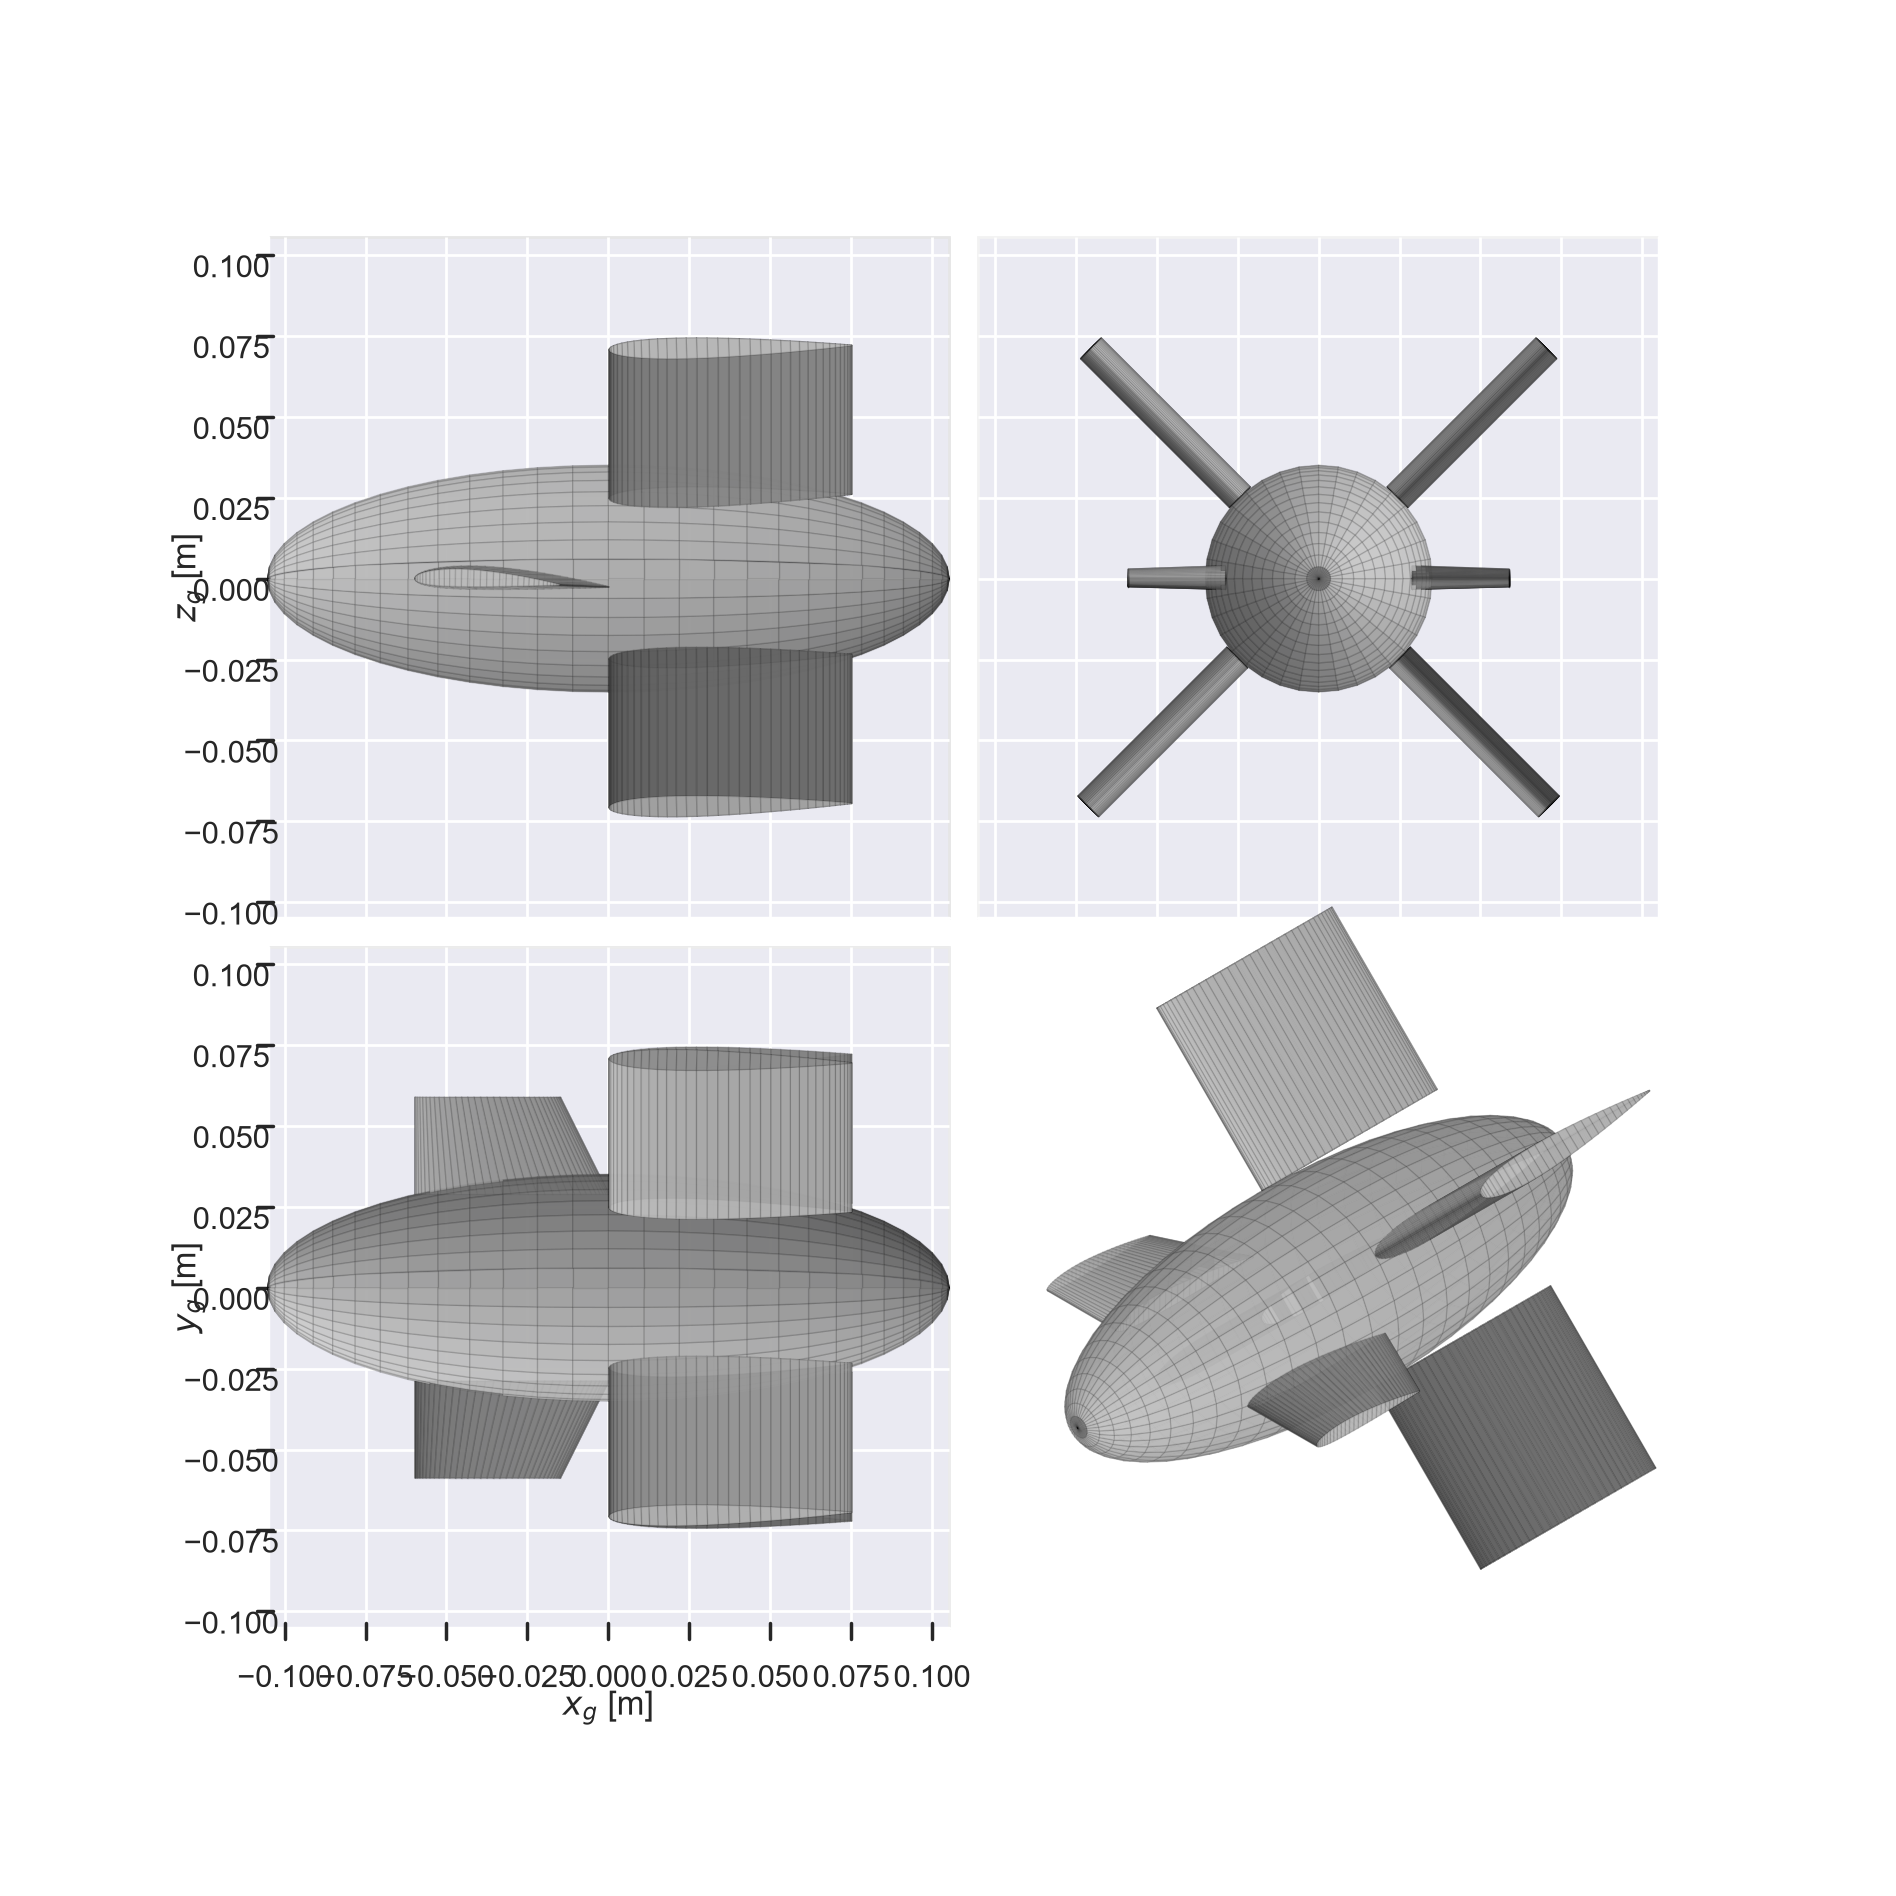
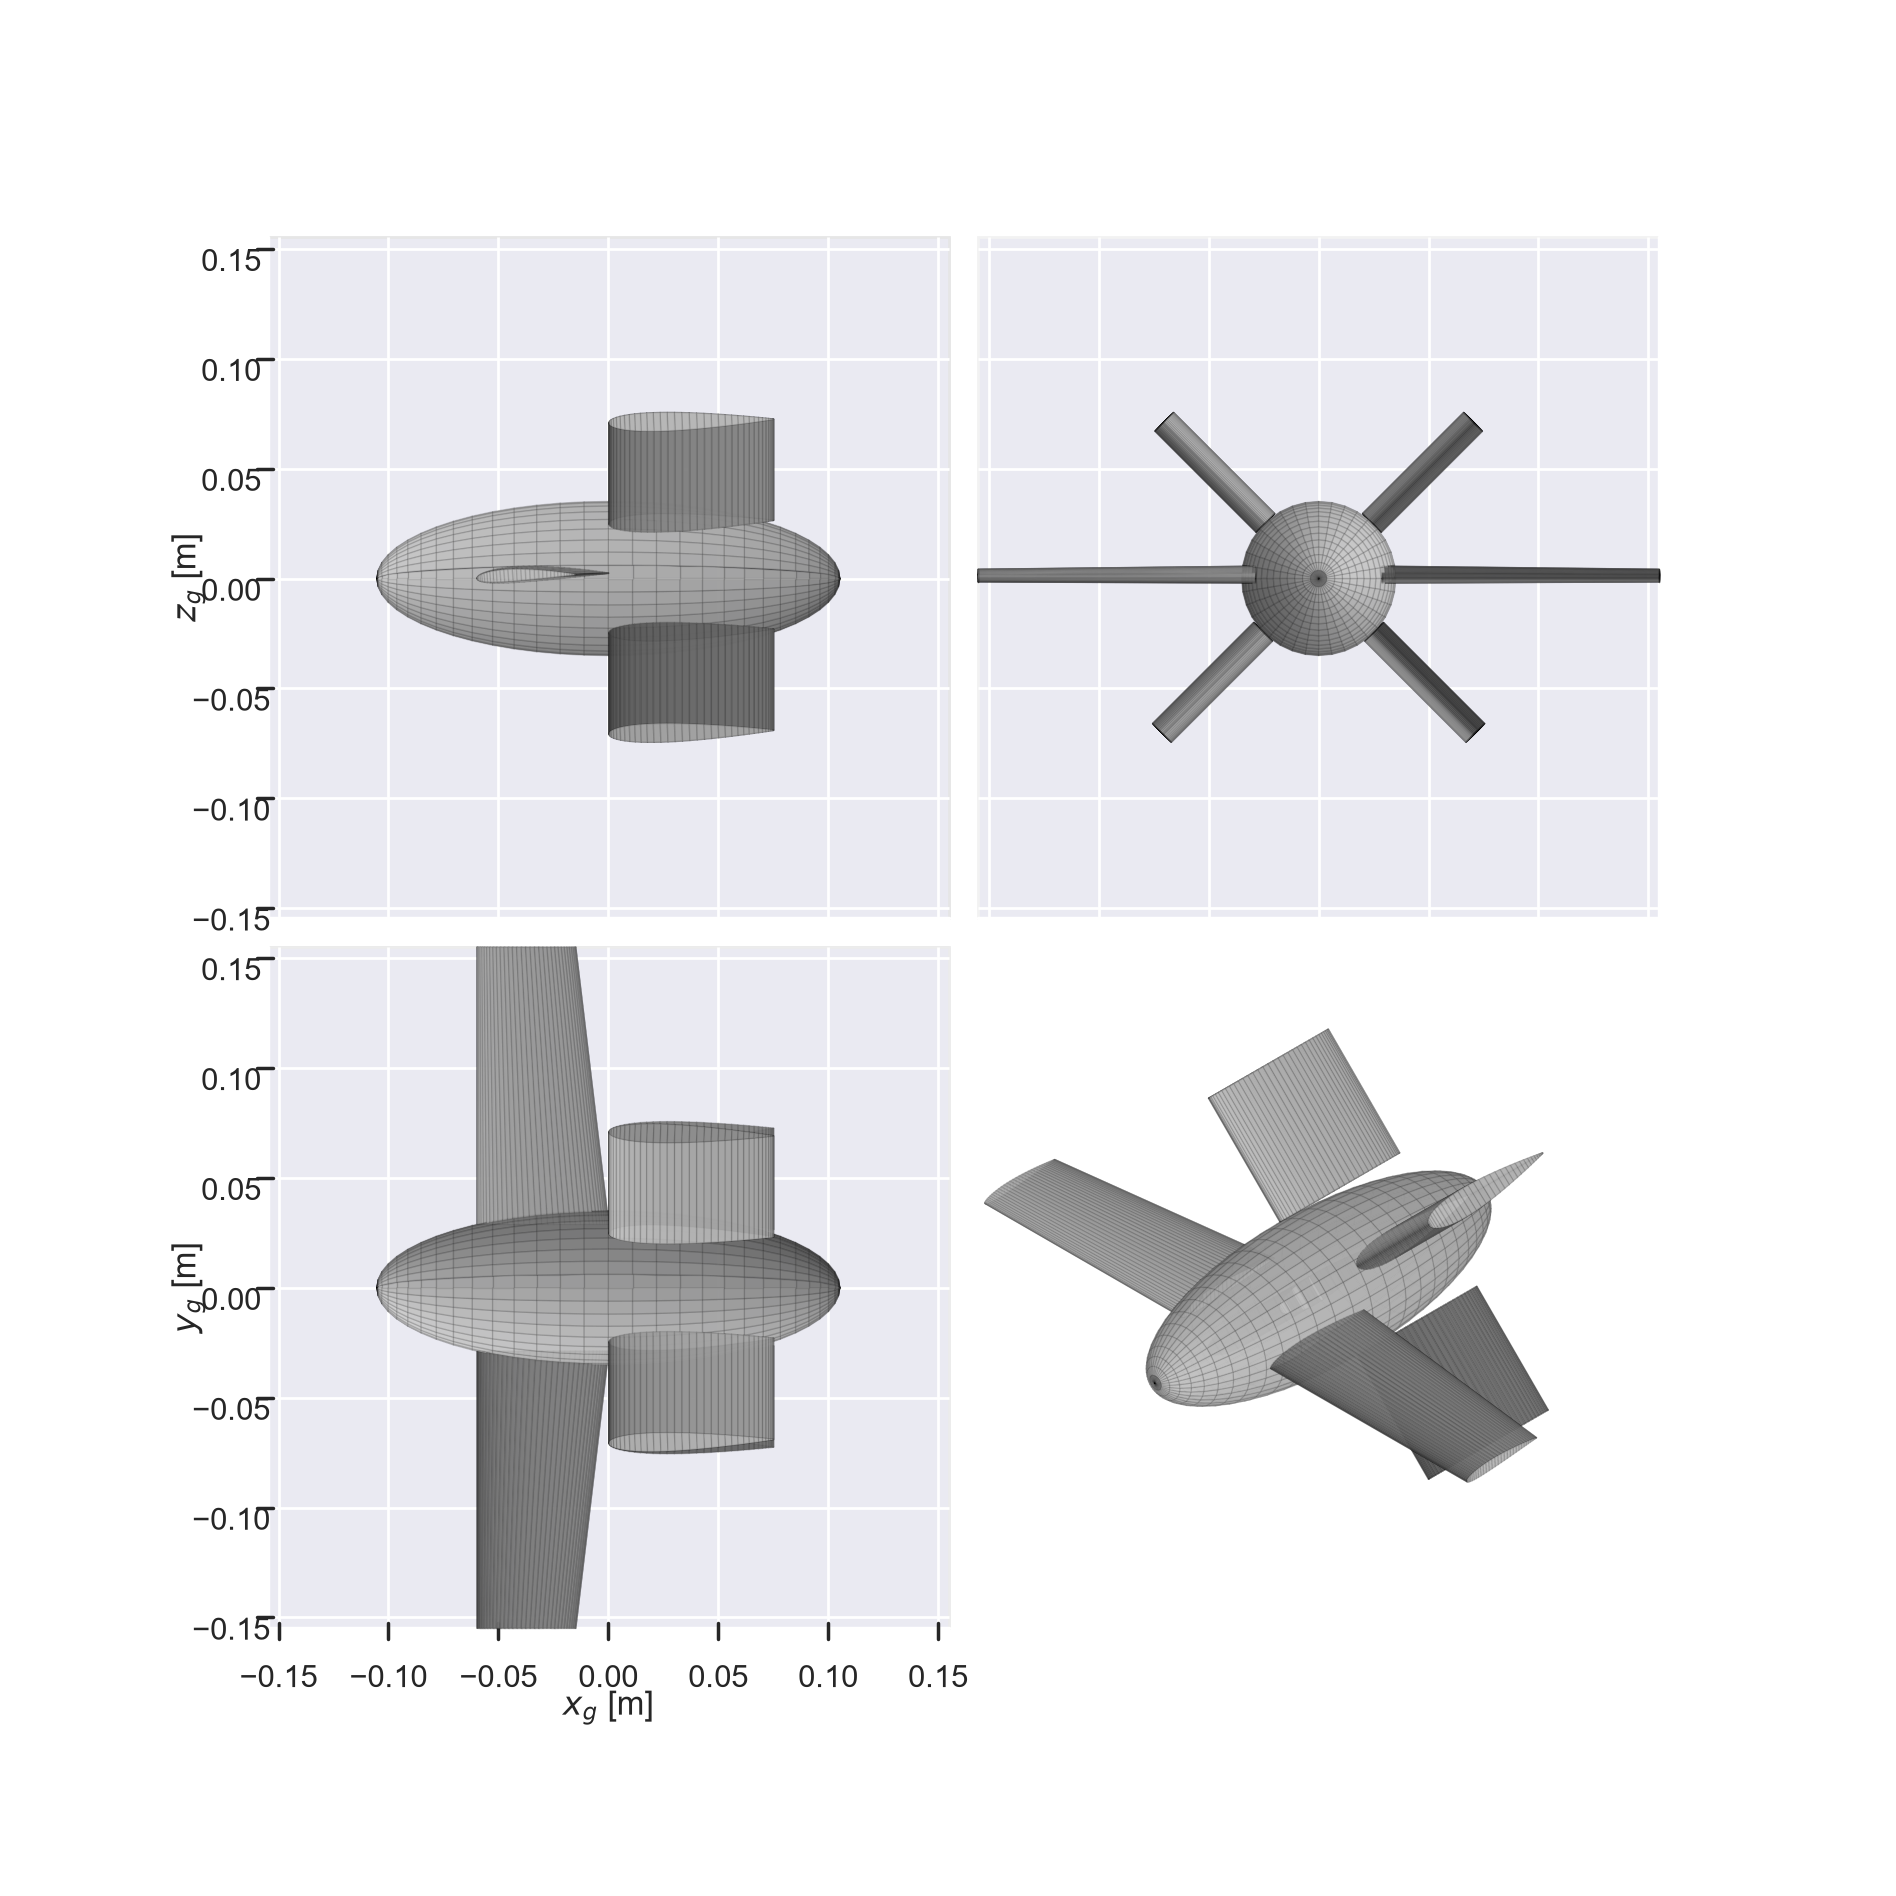
implementing for loop to iterate through the design variables and apply constraints based on the assumptions provided. The code also includes modifications to the aircraft design optimizer to calculate the solved mass of the aircraft based on the optimized design parameters. i hope this works.

diff --git a/version_1/main.py b/version_1/main.py
@@ -12,8 +12,33 @@ from src.optimization.modules.propeller_performance_database import PropellerPer
 FIGURES_DIR = Path(__file__).resolve().parent / "figures"
 
 
-def run_design_optimization(assumptions=None, show=True):
-    """Optimize the aircraft, print the report and save a three-view figure."""
+# def run_design_optimization(assumptions=None, show=True):
+#     """Optimize the aircraft, print the report and save a three-view figure."""
+#     assumptions = assumptions or Assumptions()
+
+#     prop_db = PropellerPerformanceDatabase(
+#         assumptions.perf_file,
+#         Parameters.AIR_DENSITY_SEA_LEVEL,
+#         assumptions.prop_dia,
+#         rpm_lo=assumptions.rpm_min,
+#     )
+#     optimizer = AircraftDesignOptimizer(assumptions, prop_db)
+#     optimizer.solve()
+#     print_design_report(optimizer)
+
+#     airplane = optimizer.build_solved_airplane()
+#     airplane.draw_three_view(style="shaded", show=False)
+#     FIGURES_DIR.mkdir(exist_ok=True)
+#     plt.savefig(FIGURES_DIR / "optimized_aircraft_three_view.png", dpi=200, bbox_inches="tight")
+#     if show:
+#         plt.show()
+#     return optimizer
+
+
+def run_design_optimization(assumptions=None, show=True,
+                             max_iter=10, tol_kg=5e-4, damping=0.7):
+    """Optimize with mass feedback: solve, read MassProperties output, update
+    assumptions.aircraft_mass, repeat until the fixed point is reached."""
     assumptions = assumptions or Assumptions()
 
     prop_db = PropellerPerformanceDatabase(
@@ -22,14 +47,34 @@ def run_design_optimization(assumptions=None, show=True):
         assumptions.prop_dia,
         rpm_lo=assumptions.rpm_min,
     )
-    optimizer = AircraftDesignOptimizer(assumptions, prop_db)
-    optimizer.solve()
-    print_design_report(optimizer)
 
+    optimizer = None
+    for k in range(max_iter):
+        optimizer = AircraftDesignOptimizer(assumptions, prop_db)  # fresh Opti each pass
+        optimizer.solve(verbose=False)
+
+        m_new = optimizer.solved_mass_kg()
+        delta = m_new - assumptions.aircraft_mass
+        print(f"[mass iter {k:02d}]  "
+              f"m_fixed={assumptions.aircraft_mass:.4f} kg   "
+              f"m_model={m_new:.4f} kg   Δ={delta:+.2e} kg")
+
+        if abs(delta) < tol_kg:
+            print(f"Mass converged after {k + 1} iteration(s).")
+            break
+
+        assumptions.aircraft_mass = ((1.0 - damping) * assumptions.aircraft_mass
+                                     + damping * m_new)
+    else:
+        print(f"WARNING: mass did not converge in {max_iter} iterations "
+              f"(last |Δ| = {abs(delta):.2e} kg).")
+
+    print_design_report(optimizer)
     airplane = optimizer.build_solved_airplane()
     airplane.draw_three_view(style="shaded", show=False)
     FIGURES_DIR.mkdir(exist_ok=True)
-    plt.savefig(FIGURES_DIR / "optimized_aircraft_three_view.png", dpi=200, bbox_inches="tight")
+    plt.savefig(FIGURES_DIR / "optimized_aircraft_three_view.png",
+                dpi=200, bbox_inches="tight")
     if show:
         plt.show()
     return optimizer

diff --git a/version_1/src/optimization/modules/design_variables.py b/version_1/src/optimization/modules/design_variables.py
@@ -14,7 +14,7 @@ class DesignVariables:
         self.use_canards = assumptions.use_canards
 
         # Attitude
-        self.AOA = opti.variable(init_guess=4 * np.pi / 180, lower_bound=0.0, upper_bound=8 * np.pi / 180)
+        self.AOA = opti.variable(init_guess=4 * np.pi / 180, lower_bound=0.0, upper_bound=10 * np.pi / 180)
 
         # Fuselage
         self.fuse_len = opti.variable(init_guess=0.23625, lower_bound=0.20, upper_bound=0.60)
@@ -22,15 +22,15 @@ class DesignVariables:
 
         # Pylons
         self.pylon_len = opti.variable(init_guess=0.08, lower_bound=0.05, upper_bound=0.20)
-        self.pylon_chord = opti.variable(init_guess=0.075, lower_bound=0.015, upper_bound=0.150)
+        self.pylon_chord = opti.variable(init_guess=0.05, lower_bound=0.015, upper_bound=0.1)
         self.pylon_thick = self.pylon_chord * assumptions.tc_pylon
 
         # Canards (variables only exist when canards are enabled)
         if assumptions.use_canards:
-            self.canard_len = opti.variable(init_guess=0.06, lower_bound=0.03, upper_bound=0.30)
+            self.canard_len = opti.variable(init_guess=0.1, lower_bound=0.07, upper_bound=0.20)
             self.canard_chord = opti.variable(init_guess=0.06, lower_bound=0.06, upper_bound=0.20)
             self.canard_inc = opti.variable(
-                init_guess=-0.034907, lower_bound=-6 * np.pi / 180, upper_bound=6 * np.pi / 180,
+                init_guess=-0.034907, lower_bound=-6 * np.pi / 180, upper_bound=8 * np.pi / 180,
             )
             self.canard_thick = self.canard_chord * assumptions.tc_canard
             self.l_c = opti.variable(init_guess=0.03, lower_bound=0.03, upper_bound=0.50)

diff --git a/version_1/src/optimization/modules/mass_cg_calc.py b/version_1/src/optimization/modules/mass_cg_calc.py
@@ -9,7 +9,7 @@ ass = ass()
 
 
 class MassProperties:
-    def __init__(self, l_c, l_p):
+    def __init__(self, l_c, l_p, assumptions = None):
         self.l_c = l_c
         self.l_p = l_p  # Assuming l_p is defined in DesignVariables
         self.z_fws = self.l_p - self.l_c
@@ -43,6 +43,25 @@ class MassProperties:
         x_cg = self.l_p - z_cg                           #from nose (fuselage nose)
         return x_cg
 
+    def temporary_func(self):
+        self.components = {
+        "battery": {"mass": 240, "z": self.z_fws + self.z_fws_bat + 35},
+        "frame": {"mass": 100, "z": 0},
+        "FS": {"mass": 23, "z": -13},
+        "vtx": {"mass": 15.6, "z": self.z_fws + self.z_fws_bat + 85},
+        "camera": {"mass": 16.4, "z": self.z_fws + self.z_fws_bat + 115},
+        "gps": {"mass": 10, "z": 23},
+        "receiver": {"mass": 7, "z": -25},
+        "motor": {"mass": 34.5, "z": -50 if self.pusher else 25},
+        "wiring":{"mass": 20, "z":0},
+        "front_wing": {"mass": 80, "z": self.z_fws},
+        "rear_wing": {"mass": 60, "z": 0},
+        "fuselage": {"mass": (self.z_fws + self.z_fws_bat + 115 + 60 ) * np.pi * (35**2 - 32.75**2) * self.rho_pla,
+            "z": (self.z_fws + self.z_fws_bat + 115) / 2,
+        }  ,
+        }
+        return self.components
+
     def calculate_total_mass(self):
-        total_mass = sum(c["mass"] for c in self.components.values())
+        total_mass = sum(c["mass"] for c in self.temporary_func().values())
         return total_mass/1000  # Convert to kg

diff --git a/version_1/src/optimization/modules/aircraft_design_optimizer.py b/version_1/src/optimization/modules/aircraft_design_optimizer.py
@@ -113,3 +113,10 @@ class AircraftDesignOptimizer:
     def build_solved_airplane(self):
         """asb.Airplane of the optimized design (e.g. for draw_three_view)."""
         return AircraftAerodynamics(self.solved_design(), self.assumptions.use_canards).build_airplane()
+
+    def solved_mass_kg(self):
+        """Self-consistent aircraft mass at the solution, from the design's l_c / l_p."""
+        d = self.solved_design()               # l_c, l_p in metres
+        return MassProperties(d.l_c * 1000.0,
+                              d.l_p * 1000.0,
+                              self.assumptions).calculate_total_mass()

diff --git a/version_1/src/global_parameters/global_parameters.py b/version_1/src/global_parameters/global_parameters.py
@@ -75,7 +75,7 @@ class Assumptions():
         self.pylon_thick_min = 0.012           # [m]
 
         # Engine parameters
-        self.perf_file = DATA_DIR / "PER3_5x5F.dat"
+        self.perf_file = DATA_DIR / "PER3_5x75E.dat"
         self.n_propellers = 4                  # [-] Number of propellers
         self.prop_dia = 5 * 0.0254             # [m] Max prop diameter
         self.rpm_min = 15000                   # [rpm] Min motor RPM TODO: change to fit prop or motor limit

diff --git a/version_1/src/optimization/modules/apply_design_constraints.py b/version_1/src/optimization/modules/apply_design_constraints.py
@@ -44,7 +44,7 @@ def apply_design_constraints(optimizer):
         opti.subject_to(d.l_cg == d.forced_l_cg)
     else:
         opti.subject_to(d.l_cg <= optimizer.x_np)
-        opti.subject_to(d.l_cg == MassProperties(d.l_c*1000, d.l_p*1000).calculate_mass_properties()[0]/1000)
+        opti.subject_to(d.l_cg == MassProperties(d.l_c*1000, d.l_p*1000, asm).calculate_mass_properties()[0]/1000)
 
     opti.subject_to(optimizer.x_np - d.l_cg >= asm.static_margin_frac * d.fuse_len)
 

diff --git a/version_1/src/optimization/modules/aircraft_aerodynamics.py b/version_1/src/optimization/modules/aircraft_aerodynamics.py
@@ -10,7 +10,7 @@ from src.optimization.modules.design_variables import DesignVariables
 
 N_FUSE_SECTIONS = 31
 AIRFOIL1 = "NACA2412"  # NACA 4412 is too thick for the pylon chord
-AIRFOIL2 = "NACA0012"
+AIRFOIL2 = "NACA0016"
 
 NOSE_FRAC = 0.25
 TAIL_FRAC = 0.30
